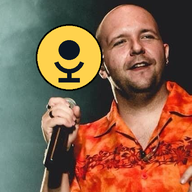
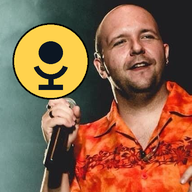
Cantor: microfone maior e mais a esquerda (sobre a fumaca), rosto livre (v16)

Changed region(s): [[0.0625, 0.0938, 0.5312, 0.5312]]

diff --git a/index.html b/index.html
@@ -12,8 +12,8 @@
 <meta property="og:type" content="website" />
 <meta name="twitter:card" content="summary_large_image" />
 <link rel="manifest" href="manifest.webmanifest" />
-<link rel="apple-touch-icon" href="icon-192.png?v=15" />
-<link rel="icon" href="icon-192.png?v=15" />
+<link rel="apple-touch-icon" href="icon-192.png?v=16" />
+<link rel="icon" href="icon-192.png?v=16" />
 <meta name="apple-mobile-web-app-capable" content="yes" />
 <meta name="apple-mobile-web-app-status-bar-style" content="black-translucent" />
 <meta name="apple-mobile-web-app-title" content="Cantor" />
